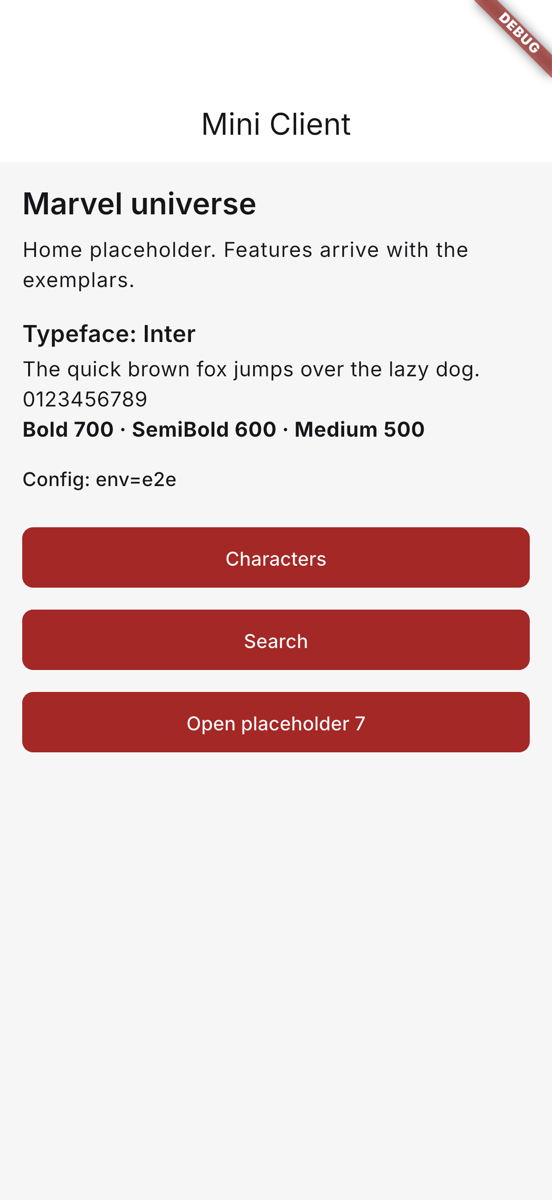
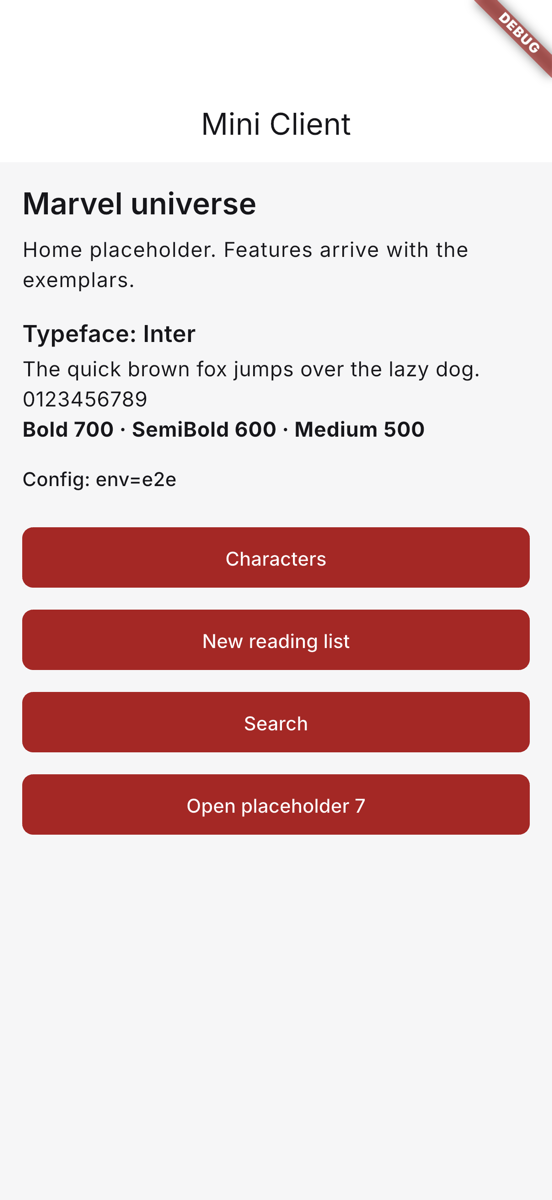
T-0046: Merge round recorded: gates 144/144, safety, 65/65 mutations, e2e 9/9

Changed region(s): [[0.0308, 0.6475, 0.9855, 0.7092], [0.3696, 0.5242, 0.6467, 0.555], [0.3388, 0.5858, 0.6159, 0.6167]]

diff --git a/documents/tasks/T-0046-discovery-search-exemplar.md b/documents/tasks/T-0046-discovery-search-exemplar.md
@@ -65,6 +65,7 @@ As with T-0032 and T-0041, this package is the shape the P1-24 bricks copy for e
 - 2026-11-26 (Engineer): Branched from `origin/main` `5cdb28c`. Every generator built on the first try: **no codegen shim failed on a real-world case** (an injectable `@module`, a freezed union with public cases and `includeIfNull: false` are new; F-0046 fact 1). Two test-kit gaps found on the way and fixed in `mc_test_steps` (generic steps): queued real storage writes needed more rounds of real time (F-0046 fact 2), and there was no way to type character by character or to let a set amount of fake time pass.
 - 2026-11-27 (Engineer): Merged `origin/main` `f624f21` (T-0045, T-0047); `fvm flutter pub get --offline` left both locks unchanged. Gates, safety and e2e re-run on the merged tree. Handed off; evidence in `documents/evidence/T-0046/engineer/`.
 - 2026-11-27 (Engineer): Review round (TL items 1 to 12, one round; below). Merged `origin/main` `fab18f0` and `1d9bde1` (docs only). Re-handed off.
+- 2026-11-27 (Engineer): Verifier PASS `31134be` brought in (`--ff-only`). Merged `origin/main` `b0ecf40` (T-0048), Verifier Lows L1 to L6; below.
 
 ## Outcome
 **Handed off** for review and verification on `fleet/T-0046-discovery-search`. Finding: [F-0046](../findings/F-0046-search-exemplar.md). Evidence: [`documents/evidence/T-0046/engineer/`](../evidence/T-0046/engineer/).
@@ -172,3 +173,16 @@ Also changed in the shared steps (`mc_test_steps`): `the app can no longer write
 **Goldens changed (2, both looked at; before and after in `documents/evidence/T-0046/engineer/goldens/review-round/`):** `search_results_all.png` and `search_results_comics.png` (the section titles carry the count, the action reads "Show 20"). The other 3 are unchanged.
 
 **Test integrity:** no test deleted, skipped or weakened; no `// ignore:`. Removed with the feature code it tested (TL decision 1): the contract test "the suggestions answer round-trips byte for byte". Changed to the new behaviour: the scenarios for a tapped recent search and a linked query now require the search at 0 ms (they allowed 300 ms); "See all" texts became the new labels; the contract test's `s` case moved from "a 400 failure" to "no result".
+
+## Merge round (T-0048 on main) and the Verifier's Lows
+- **Merge** (`035a3ea`, `origin/main` `b0ecf40`): the 7 conflicts were "both sides added"; both kept. `app/mini_client/BUILD.bazel`: two targets, `search_route_test` and `reading_list_route_test`, each with its own deps. Home has all three entries (`onNewReadingList`, `onEditReadingList`, `onOpenSearch`); the Search button reads `widget.onOpenSearch` (home is now T-0048's stateful page, whose pending-editor guard is unchanged). `app_locations.dart`, root `pubspec.yaml`, `tool/l10n_check` BUILD and gate test: union. `fvm flutter pub get --offline` left both locks unchanged. T-0048 added `ApiClientError.code`, so the repository now reads the backend's `query_too_short` from it instead of the raw Dio response (same behaviour, the same tests; R5-a follows).
+- **L1:** the 500 ms open guard is pinned from both sides: "A second tap 499 ms after the first is still the same tap" (one open), "A tap 501 ms after the first opens the result again" (two). `tapResult` takes the time between taps (no fixed 500 ms settle between them). Mutations L1-a (498 ms), L1-b (502 ms).
+- **L2:** "A Clear that fails after a newer change does not bring the old list back": a Clear fails on its way to storage while a search (whose save fails too) and an emptied field make a newer change; the new generic step `the app finishes writing to storage, never showing {text}` checks after every frame that the "could not be cleared" error never flashes up, and the list ends as stored. Mutation L2 (no version check).
+- **L3:** `mc_paging`: after a blank `submit`, typing the same query searches again, and a second blank submit clears nothing more. Mutation L3 (`_searched` kept).
+- **L4:** the failure outline asserts `{1} errors were reported` (new generic step). Mutation L4 (no `@Implements<McFailureState>()`).
+- **L5:** the keyboard's Search key submits at once (`onSubmitted` → `DiscoverySearchEvent.submitted` → `DebouncedQuery.submit`): "The keyboard's Search key searches at once" (one request with no time passing, none more at 300 ms; new generic step `I press Search on the keyboard`). Mutation L5.
+- **L6:** the flow state's comment says the initial query is searched at once and a blank one counts as none.
+
+**Results on the merged tree:** gates [PASS](../evidence/T-0046/engineer/T-0046-AC8_gates.md): **144/144** tests (T-0048's included), lint, `mc_arch_check`, `rules_fork.sh check`, format, `l10n_check`, fixtures check, relative paths, AC7 (byte identity 11/11, cutoff, not committed, gen-l10n parity); coverage discovery_search 331/331, discovery_wiring 22/22, app_core 357/371 = 96.2 % (over 90 % since T-0048, no exemption needed). `tool/ide_sync --env dev` (55 files), `fvm flutter analyze` no issues, [`T-0042-AC4_safety.sh`](../evidence/T-0046/engineer/T-0042-AC4_safety.md) PASS (0 of 144 tests executed on the synced tree, 73,524 outputs byte-identical), `--clean`. Mutations [**65 of 65 killed**](../evidence/T-0046/engineer/mutations-merge-round.log). e2e on a fresh `mc-T-0046-engineer-16594` (deleted): **9 of 9 PASS**, the search journey and deep link and T-0048's reading-list journey and deep link among them ([summary](../evidence/T-0046/engineer/mini_client/e2e-summary.md)); home shows Characters, New reading list, Search (`36_home_list_created.png`).
+
+**Goldens:** none changed in this round. **Test integrity:** no test deleted, skipped or weakened; "A result can be opened again once the first open has settled" became the two stricter 499/501 ms scenarios.

diff --git a/documents/evidence/T-0046/engineer/mini_client/e2e-summary.md b/documents/evidence/T-0046/engineer/mini_client/e2e-summary.md
@@ -8,23 +8,25 @@
 | Project | `/tmp/mc-T-0046-engineer-e2e/app/mini_client` |
 | Device | iPhone 17 Pro (`com.apple.CoreSimulator.SimDeviceType.iPhone-17-Pro`) |
 | Runtime | iOS 26.2 (`com.apple.CoreSimulator.SimRuntime.iOS-26-2`) |
-| Simulator | `mc-T-0046-engineer-47198` |
-| Simulator UDID | `4780FBDB-F94C-40A7-A44D-D2459449C4E3` |
+| Simulator | `mc-T-0046-engineer-16594` |
+| Simulator UDID | `C2E1D6FD-F153-4A26-80D7-320629ACED0B` |
 | Runner | `fvm flutter drive --driver={driver} --target={target} -d {udid}` |
-| Started | 2026-11-26T23:34:54Z |
-| Finished | 2026-11-26T23:38:51Z |
+| Started | 2026-11-27T01:02:58Z |
+| Finished | 2026-11-27T01:07:32Z |
 
 ## Targets
 
 | Target | Result | Duration | Log |
 |---|---|---|---|
-| `integration_test/characters_deeplink_test.dart` | PASS | 43 s | [e2e-characters_deeplink_test.log](e2e-characters_deeplink_test.log) |
+| `integration_test/characters_deeplink_test.dart` | PASS | 40 s | [e2e-characters_deeplink_test.log](e2e-characters_deeplink_test.log) |
 | `integration_test/characters_journey_test.dart` | PASS | 25 s | [e2e-characters_journey_test.log](e2e-characters_journey_test.log) |
-| `integration_test/characters_link_after_flow_test.dart` | PASS | 21 s | [e2e-characters_link_after_flow_test.log](e2e-characters_link_after_flow_test.log) |
-| `integration_test/comic_deeplink_test.dart` | PASS | 28 s | [e2e-comic_deeplink_test.log](e2e-comic_deeplink_test.log) |
-| `integration_test/comics_journey_test.dart` | PASS | 35 s | [e2e-comics_journey_test.log](e2e-comics_journey_test.log) |
-| `integration_test/search_deeplink_test.dart` | PASS | 26 s | [e2e-search_deeplink_test.log](e2e-search_deeplink_test.log) |
-| `integration_test/search_journey_test.dart` | PASS | 33 s | [e2e-search_journey_test.log](e2e-search_journey_test.log) |
+| `integration_test/characters_link_after_flow_test.dart` | PASS | 19 s | [e2e-characters_link_after_flow_test.log](e2e-characters_link_after_flow_test.log) |
+| `integration_test/comic_deeplink_test.dart` | PASS | 27 s | [e2e-comic_deeplink_test.log](e2e-comic_deeplink_test.log) |
+| `integration_test/comics_journey_test.dart` | PASS | 32 s | [e2e-comics_journey_test.log](e2e-comics_journey_test.log) |
+| `integration_test/reading_list_deeplink_test.dart` | PASS | 20 s | [e2e-reading_list_deeplink_test.log](e2e-reading_list_deeplink_test.log) |
+| `integration_test/reading_list_journey_test.dart` | PASS | 33 s | [e2e-reading_list_journey_test.log](e2e-reading_list_journey_test.log) |
+| `integration_test/search_deeplink_test.dart` | PASS | 25 s | [e2e-search_deeplink_test.log](e2e-search_deeplink_test.log) |
+| `integration_test/search_journey_test.dart` | PASS | 34 s | [e2e-search_journey_test.log](e2e-search_journey_test.log) |
 
 ## Screenshots
 
@@ -47,6 +49,15 @@
 | [15_favourite_saved.png](15_favourite_saved.png) | `integration_test/comics_journey_test.dart` | downscaled from 1206x2622 |
 | [16_comic_cast.png](16_comic_cast.png) | `integration_test/comics_journey_test.dart` | downscaled from 1206x2622 |
 | [17_cast_member_placeholder.png](17_cast_member_placeholder.png) | `integration_test/comics_journey_test.dart` | downscaled from 1206x2622 |
+| [37_deep_link_new_list.png](37_deep_link_new_list.png) | `integration_test/reading_list_deeplink_test.dart` | downscaled from 1206x2622 |
+| [38_link_edit_list.png](38_link_edit_list.png) | `integration_test/reading_list_deeplink_test.dart` | downscaled from 1206x2622 |
+| [30_home_new_reading_list.png](30_home_new_reading_list.png) | `integration_test/reading_list_journey_test.dart` | downscaled from 1206x2622 |
+| [31_sign_in_sheet.png](31_sign_in_sheet.png) | `integration_test/reading_list_journey_test.dart` | downscaled from 1206x2622 |
+| [32_step1_blocked.png](32_step1_blocked.png) | `integration_test/reading_list_journey_test.dart` | downscaled from 1206x2622 |
+| [33_step1_details.png](33_step1_details.png) | `integration_test/reading_list_journey_test.dart` | downscaled from 1206x2622 |
+| [34_step2_comics.png](34_step2_comics.png) | `integration_test/reading_list_journey_test.dart` | downscaled from 1206x2622 |
+| [35_step3_review.png](35_step3_review.png) | `integration_test/reading_list_journey_test.dart` | downscaled from 1206x2622 |
+| [36_home_list_created.png](36_home_list_created.png) | `integration_test/reading_list_journey_test.dart` | downscaled from 1206x2622 |
 | [36_deep_link_search.png](36_deep_link_search.png) | `integration_test/search_deeplink_test.dart` | downscaled from 1206x2622 |
 | [37_link_to_running_app_search.png](37_link_to_running_app_search.png) | `integration_test/search_deeplink_test.dart` | downscaled from 1206x2622 |
 | [30_home_search_entry.png](30_home_search_entry.png) | `integration_test/search_journey_test.dart` | downscaled from 1206x2622 |

diff --git a/documents/evidence/T-0046/engineer/T-0042-AC4_safety.md b/documents/evidence/T-0046/engineer/T-0042-AC4_safety.md
@@ -2,20 +2,20 @@
 
 | Check | Result | Detail |
 |---|---|---|
-| A. no sync: build and test //... | PASS | test passed; 46767 output files hashed |
-| 1. git status after a sync | PASS | unchanged (45 files synced, all ignored) |
+| A. no sync: build and test //... | PASS | test passed; 73524 output files hashed |
+| 1. git status after a sync | PASS | unchanged (55 files synced, all ignored) |
 | 1. negative control (stray file) | PASS | git status changed as it must |
-| 2a. no synced file is tracked | PASS | 45 checked |
+| 2a. no synced file is tracked | PASS | 55 checked |
 | 2a. negative control (git add -f) | PASS | reported: app/mini_client/lib/src/router/app_routes.g.dart |
-| 2b. no BUILD glob picks up a synced file | PASS | 45 synced files and 12 gen-l10n files, none is a source file of any target |
+| 2b. no BUILD glob picks up a synced file | PASS | 55 synced files and 15 gen-l10n files, none is a source file of any target |
 | 2b. negative control (planted .g.dart in a package without the exclusion) | PASS | the query reports it |
 | B. synced: build and test //... | PASS | both pass |
-| 3. synced tree runs 0 actions and 0 tests | PASS | Executed 0 out of 134 tests: 134 tests pass. |
-| 3. every unsynced output is in the synced run with the same hash | PASS | 46767 files, same bytes |
+| 3. synced tree runs 0 actions and 0 tests | PASS | Executed 0 out of 144 tests: 144 tests pass. |
+| 3. every unsynced output is in the synced run with the same hash | PASS | 73524 files, same bytes |
 | 3. negative control (planted file in a build) | PASS | the build ran actions, so 'no action' is a real signal |
 
 Files only in the synced run (0): none
 
-Test summary (synced tree): Executed 0 out of 134 tests: 134 tests pass.
+Test summary (synced tree): Executed 0 out of 144 tests: 144 tests pass.
 
 **PASS T-0042-AC4**
